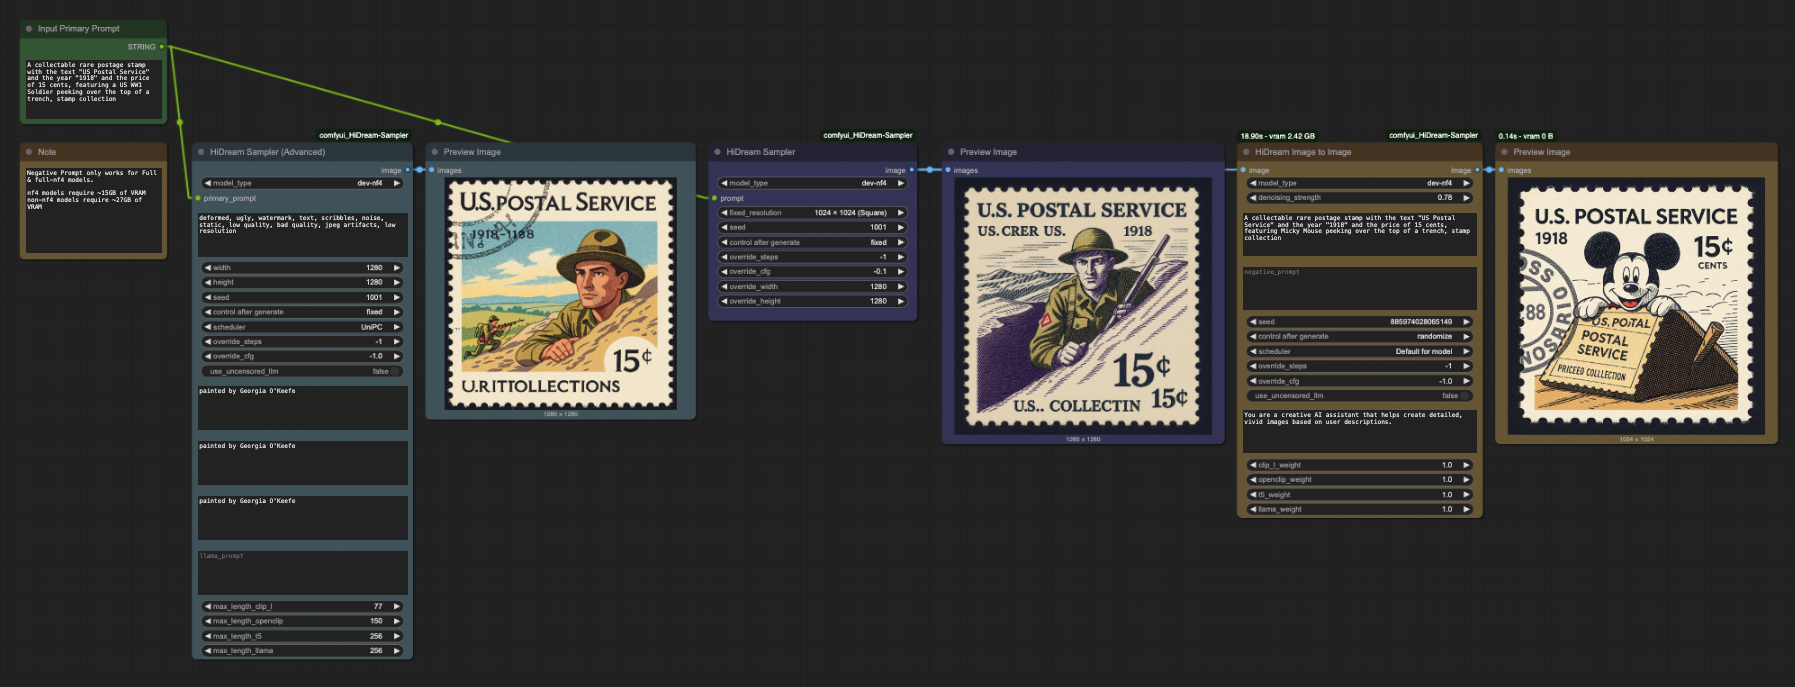
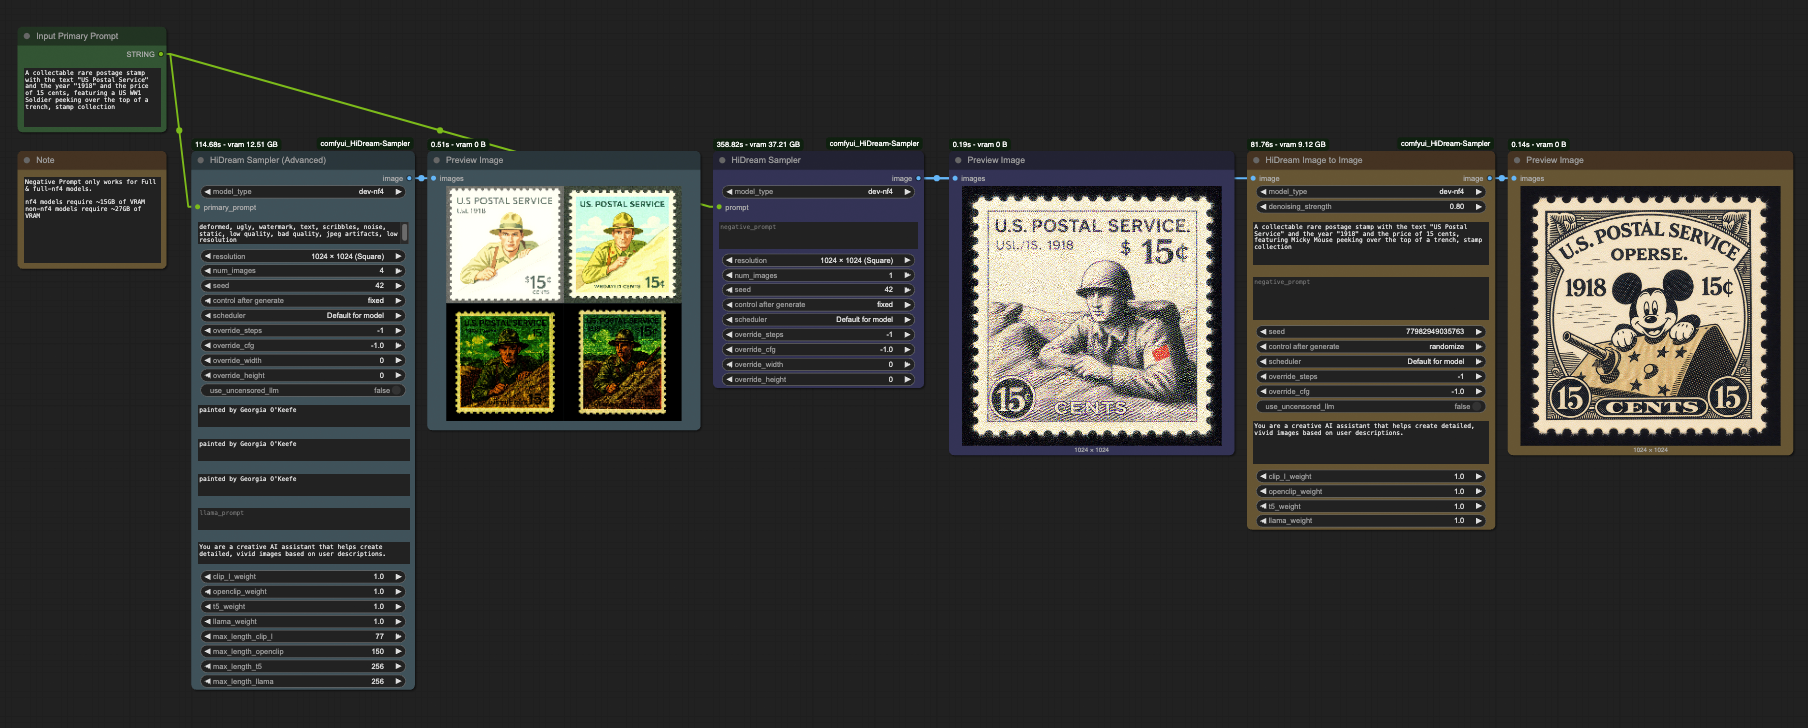
updated wf

diff --git a/README.md b/README.md
@@ -1,3 +1,5 @@
+## Imagequality is currently not the best, I'll try to find the issue tomorrow!
+
 ## Updates 13.04.
 
 - fixed cache overload
